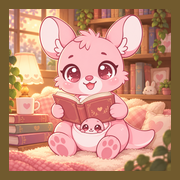
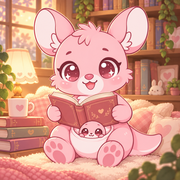
chore: SNSシェア画像とアイコンを garoop-asset の素材に差し替え
- OGP / Twitter 画像を data.garoop.jp/garoop-asset/resized/1200x630 の PNG に変更
- icon.png / apple-icon.png / favicon.ico / PWA アイコンを garoop-asset/resized/512 から再生成

diff --git a/src/app/[lang]/layout.tsx b/src/app/[lang]/layout.tsx
@@ -14,7 +14,6 @@ export async function generateMetadata({ params }: { params: Promise<{ lang: str
     description: 'Garoop Novelは、生成AIと赤ちゃんが大暴れする新感覚エンタメテーマパーク。AI、アニメ、小説など、ワクワクするコンテンツを発信中。',
     lang,
     path: '/',
-    image: 'https://d3ez7mat4qd439.cloudfront.net/summary_image/garoop_ai_land.webp',
   });
 }
 

diff --git a/src/lib/seo.ts b/src/lib/seo.ts
@@ -20,7 +20,7 @@ export function generateLocalizedMetadata({
     description,
     lang,
     path,
-    image = '/images/garo_kawaii.webp',
+    image = 'https://data.garoop.jp/garoop-asset/resized/1200x630/garoop-novel-1200x630.png',
     type = 'website',
     novelId,
     page,

diff --git a/src/app/[lang]/page.tsx b/src/app/[lang]/page.tsx
@@ -19,7 +19,6 @@ export async function generateMetadata({ params }: { params: Promise<{ lang: str
     description: dict.hero.subtitle,
     lang,
     path: '/',
-    image: 'https://d3ez7mat4qd439.cloudfront.net/summary_image/garoop_ai_land.webp',
   });
 }
 
